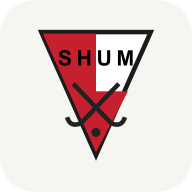
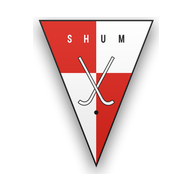
Escut oficial del SHUM

Changed region(s): [[0.1875, 0.0938, 0.8125, 0.9062]]

diff --git a/public/ui/app.js b/public/ui/app.js
@@ -23,7 +23,7 @@ function detailButton(m,label='Fitxa del partit →'){return `<button class="sec
 function matchActions(m){return `<div class="match-actions">${detailButton(m)}${m.video?`<a class="secondary video-link" href="${esc(safeURL(m.video))}" target="_blank" rel="noopener" aria-label="Vídeo del partit ${esc(short(m.home))} – ${esc(short(m.away))}">▷ Vídeo ↗</a>`:m.score&&team.videos?'<span class="video-pending">Vídeo pendent</span>':''}</div>`;}
 function download(name,content,type){const u=URL.createObjectURL(new Blob([content],{type}));const a=document.createElement('a');a.href=u;a.download=name;a.click();setTimeout(()=>URL.revokeObjectURL(u),30000);}
 function home(){const all=matches(),stats=standings(all,league.teams),s=stats.find(t=>isOwnTeam(t.team))||{pj:0,pts:0,gf:0,gc:0},next=all.filter(m=>isSHUM(m)&&!m.score&&m.date).sort((a,b)=>(a.date+a.time).localeCompare(b.date+b.time))[0],recent=played().filter(isSHUM).sort((a,b)=>(b.date||'').localeCompare(a.date||'')).slice(0,3);
-return `<section class="hero"><div><span class="red-tag">SOM EQUIP. SOM SHUM.</span><h2>El partit continua<br>fora de la pista.</h2><p>Calendari, resultats${team.videos?' i vídeos':''} de ${esc(team.label)}. La nostra temporada, en un mateix lloc.</p><button class="primary" data-view="calendari">Veure els partits <span>↗</span></button></div><img class="hero-badge" src="${new URL('./badge.svg',import.meta.url).href}" alt="SHUM"></section><div class="stats">${[['Partits jugats',s.pj,'▦'],['Punts',s.pts,'↗'],['Gols a favor',s.gf,'◎'],team.videos?['Vídeos desats',all.filter(m=>m.video&&isSHUM(m)).length,'▷']:['Gols en contra',s.gc??0,'◈']].map(([label,value,icon])=>`<div class="stat"><div><span>${label}</span><strong>${value}</strong></div><em>${icon}</em></div>`).join('')}</div><div class="grid-two"><section><div class="section-title"><h2>El proper partit</h2><span class="tiny">${next?'JORNADA '+next.round:''}</span></div>${next?`<div class="panel next"><div class="next-date"><strong>${date(next.date)}</strong><span class="tiny">${next.time} h · ${isOwnTeam(next.home)?'A CASA':'A FORA'}</span></div><div class="teams-vs">${teamBadge(next.home)}<span class="vs">VS</span>${teamBadge(next.away)}</div><div class="next-bottom"><span class="tiny">Horari publicat a FECAPA</span>${detailButton(next)}</div></div>`:'<div class="empty">No hi ha partits pendents al calendari.</div>'}</section><section><div class="section-title"><h2>Últims resultats</h2><button data-view="calendari">Tots els resultats ↗</button></div><div class="panel">${recent.map(m=>{const mine=isOwnTeam(m.home)?m.score[0]:m.score[1],other=isOwnTeam(m.home)?m.score[1]:m.score[0];return `<div class="result-line"><div class="result-square ${mine<other?'loss':''}">${mine>other?'V':mine<other?'D':'E'}</div><div class="result-info"><strong>${esc(short(m.home))} – ${esc(short(m.away))}</strong><span>${date(m.date)} · Jornada ${m.round}</span></div><strong class="score-big">${score(m)}</strong>${matchActions(m)}</div>`;}).join('')||'<p class="muted">Encara no hi ha resultats.</p>'}</div></section></div>`;
+return `<section class="hero"><div><span class="red-tag">SOM EQUIP. SOM SHUM.</span><h2>El partit continua<br>fora de la pista.</h2><p>Calendari, resultats${team.videos?' i vídeos':''} de ${esc(team.label)}. La nostra temporada, en un mateix lloc.</p><button class="primary" data-view="calendari">Veure els partits <span>↗</span></button></div><img class="hero-badge" src="${new URL('./badge.png',import.meta.url).href}" alt="SHUM"></section><div class="stats">${[['Partits jugats',s.pj,'▦'],['Punts',s.pts,'↗'],['Gols a favor',s.gf,'◎'],team.videos?['Vídeos desats',all.filter(m=>m.video&&isSHUM(m)).length,'▷']:['Gols en contra',s.gc??0,'◈']].map(([label,value,icon])=>`<div class="stat"><div><span>${label}</span><strong>${value}</strong></div><em>${icon}</em></div>`).join('')}</div><div class="grid-two"><section><div class="section-title"><h2>El proper partit</h2><span class="tiny">${next?'JORNADA '+next.round:''}</span></div>${next?`<div class="panel next"><div class="next-date"><strong>${date(next.date)}</strong><span class="tiny">${next.time} h · ${isOwnTeam(next.home)?'A CASA':'A FORA'}</span></div><div class="teams-vs">${teamBadge(next.home)}<span class="vs">VS</span>${teamBadge(next.away)}</div><div class="next-bottom"><span class="tiny">Horari publicat a FECAPA</span>${detailButton(next)}</div></div>`:'<div class="empty">No hi ha partits pendents al calendari.</div>'}</section><section><div class="section-title"><h2>Últims resultats</h2><button data-view="calendari">Tots els resultats ↗</button></div><div class="panel">${recent.map(m=>{const mine=isOwnTeam(m.home)?m.score[0]:m.score[1],other=isOwnTeam(m.home)?m.score[1]:m.score[0];return `<div class="result-line"><div class="result-square ${mine<other?'loss':''}">${mine>other?'V':mine<other?'D':'E'}</div><div class="result-info"><strong>${esc(short(m.home))} – ${esc(short(m.away))}</strong><span>${date(m.date)} · Jornada ${m.round}</span></div><strong class="score-big">${score(m)}</strong>${matchActions(m)}</div>`;}).join('')||'<p class="muted">Encara no hi ha resultats.</p>'}</div></section></div>`;
 }
 function calendar(){let list=matches().filter(m=>(!onlySHUM||isSHUM(m))&&(!round||m.round===Number(round))&&(filter==='all'||filter==='played'&&m.score||filter==='next'&&!m.score)&&(!search||(m.home+' '+m.away).toLowerCase().includes(search.toLowerCase())));list.sort((a,b)=>((a.date||'9999')+a.time).localeCompare((b.date||'9999')+b.time));return `<p class="muted">Tots els partits de ${esc(league.league)}, amb hora local de Catalunya.</p><div class="controls"><label><input id="only-shum" type="checkbox" ${onlySHUM?'checked':''}> Només el nostre equip</label><select id="round" aria-label="Jornada"><option value="">Totes les jornades</option>${Array.from({length:Math.max(0,...league.matches.map(m=>m.round))},(_,i)=>`<option value="${i+1}" ${round===String(i+1)?'selected':''}>Jornada ${i+1}</option>`).join('')}</select><select id="filter" aria-label="Estat del partit">${[['all','Tots els partits'],['played','Finalitzats'],['next','Pendents']].map(([v,l])=>`<option value="${v}" ${v===filter?'selected':''}>${l}</option>`).join('')}</select><input id="search" type="search" aria-label="Cerca equip" placeholder="Cerca un equip…" value="${esc(search)}"></div><div class="match-list">${list.map(m=>`<article class="match-card ${isSHUM(m)?'shum-match':''}"><div class="date-block"><span>JORNADA ${m.round}</span><strong>${date(m.date)}</strong><span>${m.time||'Hora pendent'}${m.time?' h':''}</span></div><div class="team-name">${esc(m.home)}</div><div class="score">${score(m)}</div><div class="team-name away">${esc(m.away)}</div>${matchActions(m)}</article>`).join('')||'<div class="empty">Cap partit coincideix amb aquests filtres.</div>'}</div>`;}
 function classification(){const rows=standings(matches(),league.teams);return `<p class="muted">Punts calculats amb els resultats importats: victòria 3, empat 1. En empats a punts s’ordena per diferència de gols; consulta FECAPA per als desempats oficials.</p><div class="panel table-wrap"><table><thead><tr>${['#','Equip','PJ','PG','PE','PP','GF','GC','DG','Punts'].map(t=>`<th>${t}</th>`).join('')}</tr></thead><tbody>${rows.map((r,i)=>`<tr class="${isOwnTeam(r.team)?'shum-row':''}"><td>${i+1}</td><td>${esc(r.team)}</td>${[r.pj,r.pg,r.pe,r.pp,r.gf,r.gc,r.gf-r.gc].map(x=>`<td>${x}</td>`).join('')}<td><strong>${r.pts}</strong></td></tr>`).join('')}</tbody></table></div>`;}

diff --git a/app/shell.html b/app/shell.html
@@ -1,4 +1,4 @@
-<aside><a class="brand" href="#inici"><img src="/ui/badge.svg" alt=""><span>SHUM<small id="brand-category">HOQUEI PATINS</small></span></a><label class="team-picker"><span>Equip que segueixes</span><select id="team-select" aria-label="Equip que segueixes"></select></label><div class="season">TEMPORADA 2026 / 27</div><nav aria-label="Navegació principal"><button data-view="inici" class="active">◉ <span>El nostre equip</span></button><button data-view="calendari">▦ <span>Calendari i resultats</span></button><button data-view="classificacio">≡ <span>Classificació</span></button><button data-view="golejadors">◎ <span>Golejadors</span></button><button data-view="porters">◈ <span>Porters</span></button><button data-view="targetes">▣ <span>Targetes</span></button></nav><div class="aside-bottom"><div class="club-note">Una temporada.<br><strong>Tots els moments.</strong></div><a href="https://www.hoqueipatins.fecapa.cat/" target="_blank" rel="noopener">FECAPA oficial ↗</a></div></aside>
+<aside><a class="brand" href="#inici"><img src="/ui/badge.png" alt=""><span>SHUM<small id="brand-category">HOQUEI PATINS</small></span></a><label class="team-picker"><span>Equip que segueixes</span><select id="team-select" aria-label="Equip que segueixes"></select></label><div class="season">TEMPORADA 2026 / 27</div><nav aria-label="Navegació principal"><button data-view="inici" class="active">◉ <span>El nostre equip</span></button><button data-view="calendari">▦ <span>Calendari i resultats</span></button><button data-view="classificacio">≡ <span>Classificació</span></button><button data-view="golejadors">◎ <span>Golejadors</span></button><button data-view="porters">◈ <span>Porters</span></button><button data-view="targetes">▣ <span>Targetes</span></button></nav><div class="aside-bottom"><div class="club-note">Una temporada.<br><strong>Tots els moments.</strong></div><a href="https://www.hoqueipatins.fecapa.cat/" target="_blank" rel="noopener">FECAPA oficial ↗</a></div></aside>
 <main><header><div><span class="eyebrow">HOQUEI BASE · MAÇANET DE LA SELVA</span><h1 id="page-title">El nostre equip</h1></div><div class="header-right"><button id="install-app" class="primary" type="button">↓ Instal·la l’app</button><span class="league-pill"><span id="pill-label">SHUM</span> <b id="pill-group"></b></span><button id="refresh" class="quiet">↻ Actualitza FECAPA</button></div></header><div id="notice" role="status" aria-live="polite"></div><div id="content"><p>Carregant el calendari…</p></div><footer><span id="footer-label">SHUM · 2026/27</span><span id="updated"></span></footer></main>
 <dialog id="match-dialog" aria-labelledby="dialog-title"><button id="close-dialog" class="close" aria-label="Tanca la fitxa">×</button><div id="match-content"></div></dialog>
 <dialog id="install-dialog" aria-labelledby="install-title"><button id="close-install" class="close" type="button" aria-label="Tanca les instruccions">×</button><div class="install-content"><span class="tiny">SHUM · HOQUEI PATINS</span><h2 id="install-title">Instal·la la web al mòbil</h2><p>Tindràs la icona del SHUM a la pantalla d’inici per obrir el calendari, els resultats i els vídeos.</p><h3>Android / Xiaomi</h3><ol><li>Obre aquesta web amb <strong>Chrome</strong>.</li><li>Toca <strong>Instal·la l’app</strong> i confirma la instal·lació.</li><li>Si no apareix la finestra, obre el menú <strong>⋮</strong> de Chrome i tria <strong>Afegeix a la pantalla d’inici</strong> o <strong>Instal·la l’aplicació</strong>.</li></ol><h3>iPhone / iPad</h3><ol><li>Obre aquesta web amb <strong>Safari</strong>.</li><li>Toca <strong>Comparteix</strong> i <strong>Afegeix a la pantalla d’inici</strong>.</li><li>Si apareix l’opció <strong>Obre com a app web</strong>, activa-la i toca <strong>Afegeix</strong>.</li></ol><p class="help">Si estàs dins d’una altra aplicació, obre l’enllaç a Chrome o Safari. Necessites connexió a Internet per consultar les dades i els vídeos.</p></div></dialog>

diff --git a/public/ui/style.css b/public/ui/style.css
@@ -45,3 +45,4 @@ nav button[hidden]{display:none}
 .video-frame{position:relative;width:100%;aspect-ratio:16/9;border:0;border-radius:8px;background:#111;overflow:hidden;margin-top:6px}
 .video-frame iframe{position:absolute;inset:0;width:100%;height:100%;border:0}
 .card-chip{display:inline-grid;place-items:center;min-width:18px;height:22px;padding:0 4px;margin-left:3px;border-radius:3px;font-size:11px;font-weight:700;color:#fff}.card-chip.yellow{background:#e5b400;color:#1c2023}.card-chip.blue{background:#1f5fbf}.card-chip.red{background:var(--red)}
+.brand img,.hero-badge{height:auto;object-fit:contain}
